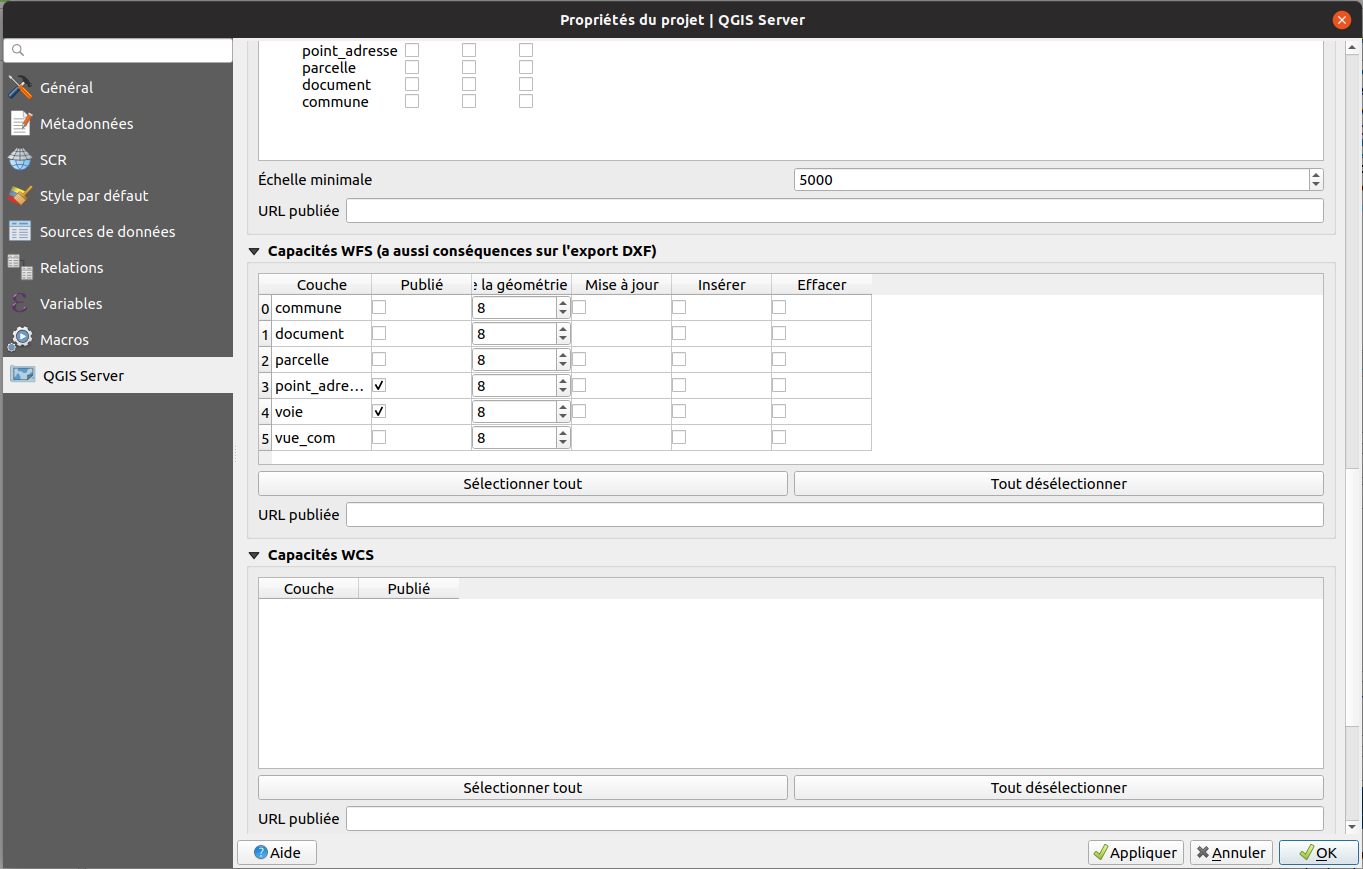
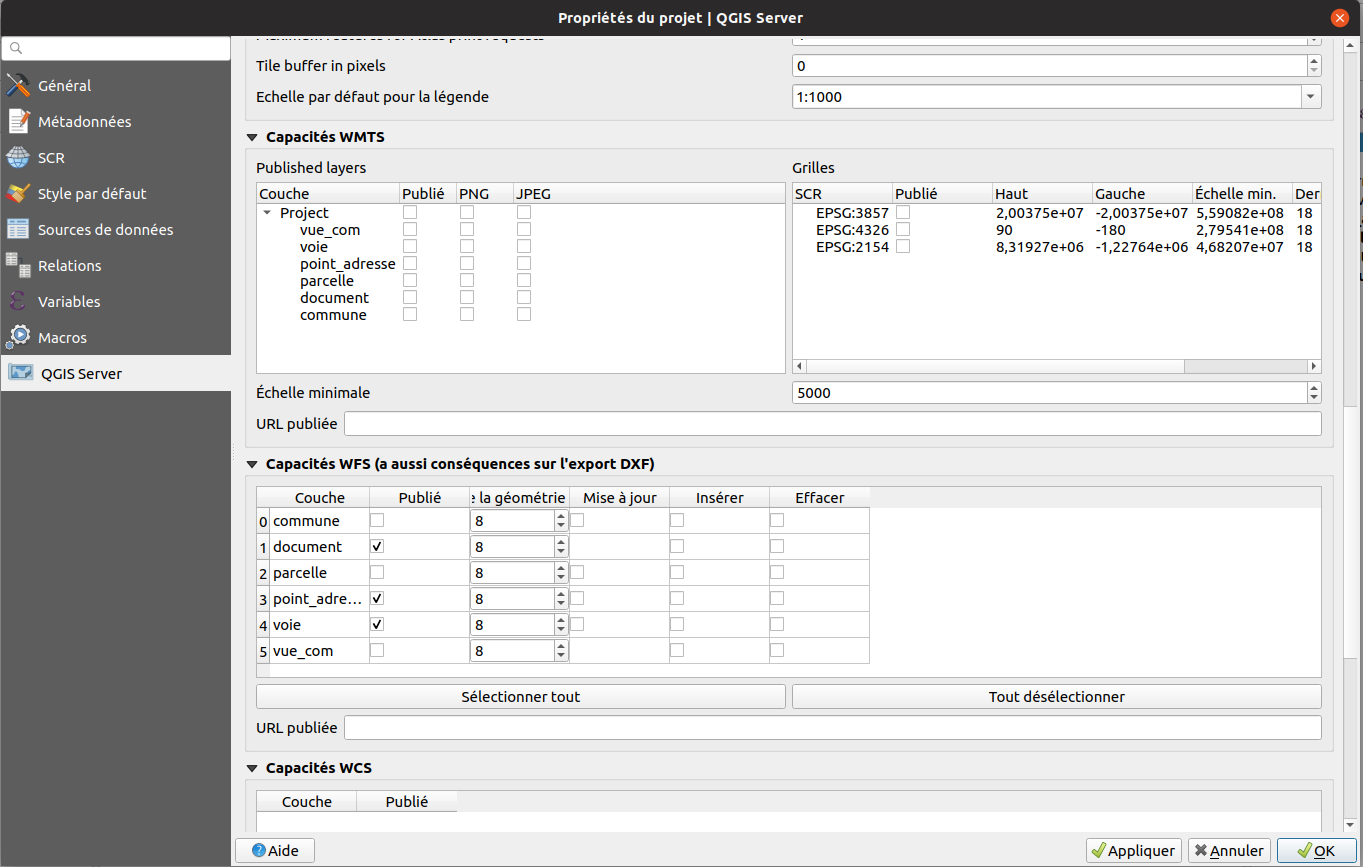
Adding document layer in project config

diff --git a/docs/user_guide/index.html b/docs/user_guide/index.html
@@ -5,7 +5,7 @@
   <meta charset="utf-8"/>
   <title>Gestion des adresses</title>
   <link href="https://cdnjs.cloudflare.com/ajax/libs/highlight.js/8.1/styles/github.min.css" rel="stylesheet"/>
-  <link href="https://3liz.github.io/remarkable.css" rel="stylesheet"/>
+  <link href="https://docs.3liz.org/remarkable.css" rel="stylesheet"/>
   <link href="../icon.png" rel="icon" type="image/png" >
  </head>
  <body>
@@ -13,7 +13,6 @@
     <h1>Gestion des adresses</h1>
  </header>
  <article>
- <p><a href="../">Up</a></p>
 <div class="toc"><span class="toctitle">Table of content</span><ul>
 <li><a href="#guide-dutilisateur-pour-la-configuration-dun-projet-adresse">Guide d'utilisateur pour la configuration d'un projet Adresse</a><ul>
 <li><a href="#liste-des-scripts">Liste des scripts</a></li>
@@ -85,7 +84,7 @@ les voies et les adresses.</p>
 <p>En haut à gauche de votre fenêtre QGIS vous trouverez le menu <strong>Projet</strong> dans lequel vous aurez accès aux <strong>propriétés</strong>.</p>
 <p><img alt="project_properties" src="./properties_project.png"></p>
 <p>Une fois dans la fenêtre <strong>Propriétés du projet</strong> vous irez dans la section <strong>QGIS Server</strong>, puis dans la 
-partie <strong>Capacités WFS</strong> où vous cocherez pour les couches <code>voie</code> et <code>point_adresse</code> la case de la colonne 
+partie <strong>Capacités WFS</strong> où vous cocherez pour les couches <code>voie</code>, <code>point_adresse</code> et <code>document</code> la case de la colonne 
 <strong>Publié</strong>.</p>
 <h3 id="configuration-pour-lizmap">Configuration pour Lizmap</h3>
 <p>Dernière étape pour avoir un projet bien configuré il s'agit de la partie Lizmap. Il faut ouvrir le plugin. 

diff --git a/docs/processing/index.html b/docs/processing/index.html
@@ -5,7 +5,7 @@
   <meta charset="utf-8"/>
   <title>Gestion des adresses</title>
   <link href="https://cdnjs.cloudflare.com/ajax/libs/highlight.js/8.1/styles/github.min.css" rel="stylesheet"/>
-  <link href="https://3liz.github.io/remarkable.css" rel="stylesheet"/>
+  <link href="https://docs.3liz.org/remarkable.css" rel="stylesheet"/>
   <link href="../icon.png" rel="icon" type="image/png" >
  </head>
  <body>
@@ -13,7 +13,6 @@
     <h1>Gestion des adresses</h1>
  </header>
  <article>
- <p><a href="../">Up</a></p>
 <div class="toc"><span class="toctitle">Table of content</span><ul>
 <li><a href="#gestion-des-adresses">Gestion des adresses</a><ul>
 <li><a href="#outils">Outils</a><ul>

diff --git a/docs/index.html b/docs/index.html
@@ -5,7 +5,7 @@
   <meta charset="utf-8"/>
   <title>Gestion Adresse</title>
   <link href="https://cdnjs.cloudflare.com/ajax/libs/highlight.js/8.1/styles/github.min.css" rel="stylesheet"/>
-  <link href="https://3liz.github.io/remarkable.css" rel="stylesheet"/>
+  <link href="https://docs.3liz.org/remarkable.css" rel="stylesheet"/>
   <link href="icon.png" rel="icon" type="image/png" >
  </head>
  <body>
@@ -13,7 +13,6 @@
     <h1>Gestion Adresse</h1>
  </header>
  <article>
- <p><a href="../">Up</a></p>
 <ul>
 <li><a href="./user_guide/">User guide</a></li>
 <li><a href="./processing/">Algorithms descriptions</a></li>

diff --git a/docs/user_guide/README.md b/docs/user_guide/README.md
@@ -2,6 +2,7 @@
 Title: Gestion des adresses
 Favicon: ../icon.png
 ...
+
 [TOC]
 
 
@@ -96,7 +97,7 @@ En haut à gauche de votre fenêtre QGIS vous trouverez le menu **Projet** dans 
 ![project_properties](./properties_project.png)
 
 Une fois dans la fenêtre **Propriétés du projet** vous irez dans la section **QGIS Server**, puis dans la 
-partie **Capacités WFS** où vous cocherez pour les couches `voie` et `point_adresse` la case de la colonne 
+partie **Capacités WFS** où vous cocherez pour les couches `voie`, `point_adresse` et `document` la case de la colonne 
 **Publié**.
 
 
